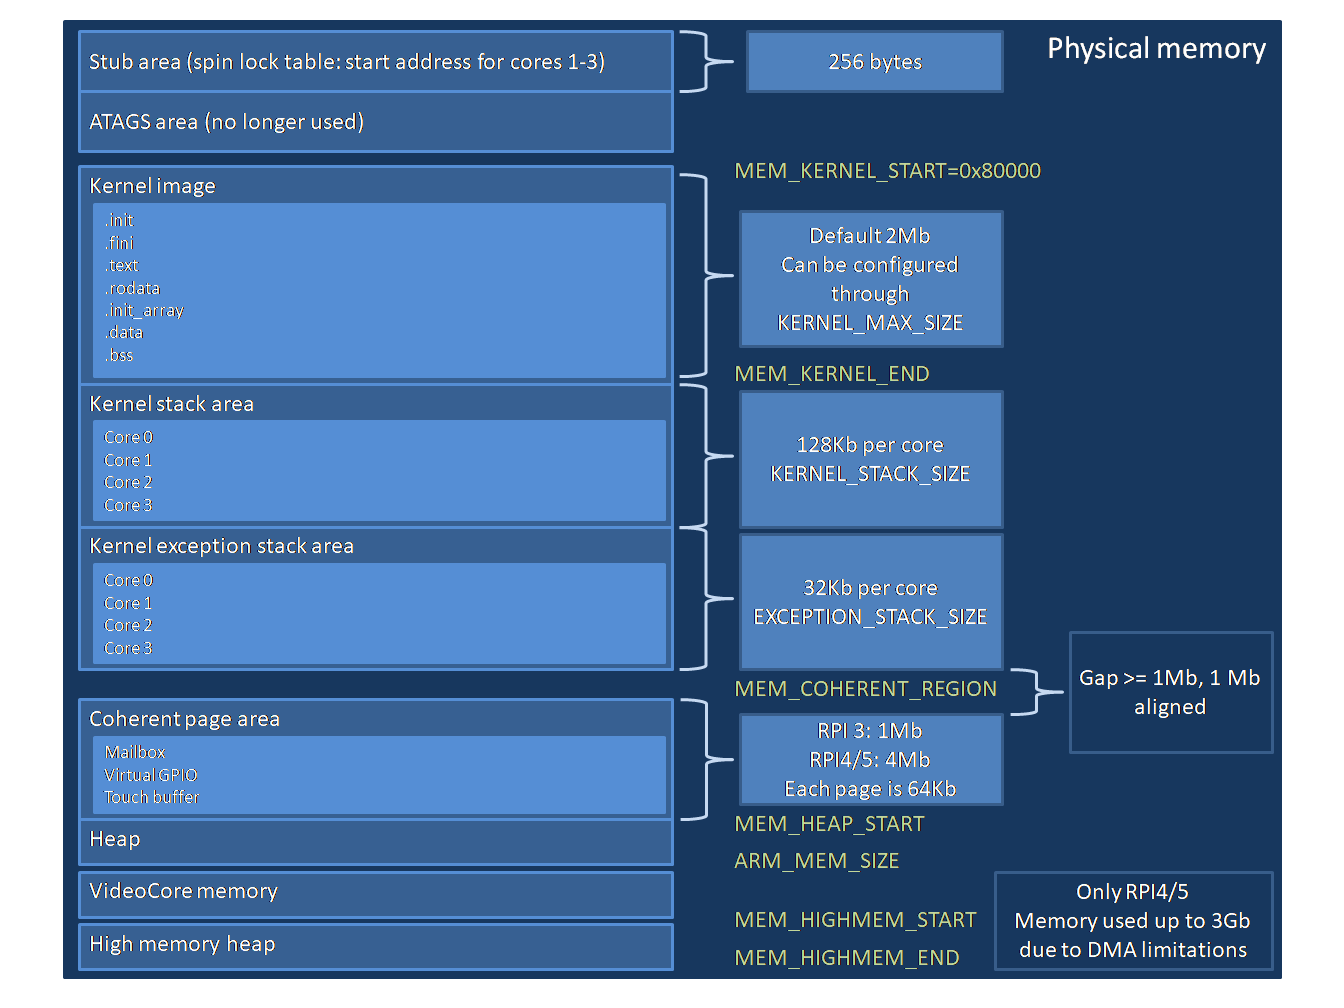
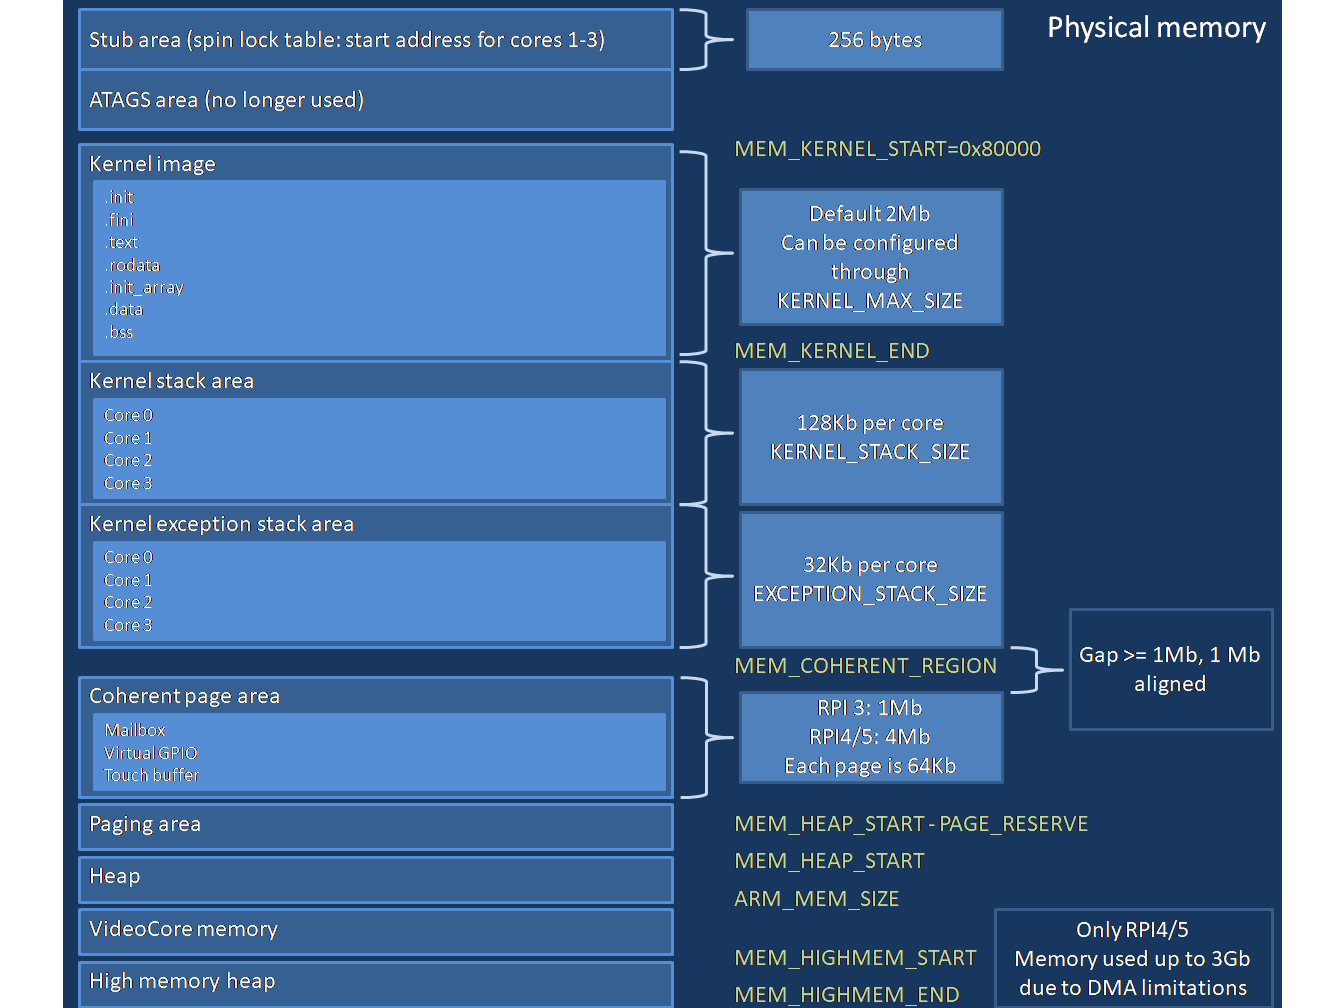
Update comment in MemoryMap on paging area, also update picture showing this

Changed region(s): [[0.0312, 0.0, 0.9688, 1.0]]

diff --git a/code/libraries/baremetal/include/baremetal/MemoryMap.h b/code/libraries/baremetal/include/baremetal/MemoryMap.h
@@ -54,7 +54,7 @@
 /// @brief Part of RAM mapped to ARM (this is the total amount - amount allocated to GPU)
 #define ARM_MEM_SIZE (MEM_SIZE - GPU_MEM_SIZE)
 
-/// @brief Memory reserved for paging
+/// @brief Memory reserved for paging. Paging memory is placed just below the low heap
 #define PAGE_RESERVE (16 * MEGABYTE)
 
 /// @brief Size of every page

diff --git a/tutorial/11-doxygen/code/libraries/baremetal/include/baremetal/MemoryMap.h b/tutorial/11-doxygen/code/libraries/baremetal/include/baremetal/MemoryMap.h
@@ -54,7 +54,7 @@
 /// @brief Part of RAM mapped to ARM (this is the total amount - amount allocated to GPU)
 #define ARM_MEM_SIZE (MEM_SIZE - GPU_MEM_SIZE)
 
-/// @brief Memory reserved for paging
+/// @brief Memory reserved for paging. Paging memory is placed just below the low heap
 #define PAGE_RESERVE (16 * MEGABYTE)
 
 /// @brief Size of every page

diff --git a/tutorial/12-logger/code/libraries/baremetal/include/baremetal/MemoryMap.h b/tutorial/12-logger/code/libraries/baremetal/include/baremetal/MemoryMap.h
@@ -54,7 +54,7 @@
 /// @brief Part of RAM mapped to ARM (this is the total amount - amount allocated to GPU)
 #define ARM_MEM_SIZE (MEM_SIZE - GPU_MEM_SIZE)
 
-/// @brief Memory reserved for paging
+/// @brief Memory reserved for paging. Paging memory is placed just below the low heap
 #define PAGE_RESERVE (16 * MEGABYTE)
 
 /// @brief Size of every page

diff --git a/tutorial/13-board-information/code/libraries/baremetal/include/baremetal/MemoryMap.h b/tutorial/13-board-information/code/libraries/baremetal/include/baremetal/MemoryMap.h
@@ -54,7 +54,7 @@
 /// @brief Part of RAM mapped to ARM (this is the total amount - amount allocated to GPU)
 #define ARM_MEM_SIZE (MEM_SIZE - GPU_MEM_SIZE)
 
-/// @brief Memory reserved for paging
+/// @brief Memory reserved for paging. Paging memory is placed just below the low heap
 #define PAGE_RESERVE (16 * MEGABYTE)
 
 /// @brief Size of every page

diff --git a/tutorial/05-console-uart1/code/libraries/baremetal/include/baremetal/MemoryMap.h b/tutorial/05-console-uart1/code/libraries/baremetal/include/baremetal/MemoryMap.h
@@ -48,7 +48,7 @@
 // Part of RAM mapped to ARM (this is the total amount - amount allocated to GPU)
 #define ARM_MEM_SIZE (MEM_SIZE - GPU_MEM_SIZE) // normally overwritten
 
-// Memory reserved for paging
+// Memory reserved for paging. Paging memory is placed just below the low heap
 #define PAGE_RESERVE (16 * MEGABYTE)
 
 // Size of every page

diff --git a/tutorial/06-improving-startup-static-initialization/code/libraries/baremetal/include/baremetal/MemoryMap.h b/tutorial/06-improving-startup-static-initialization/code/libraries/baremetal/include/baremetal/MemoryMap.h
@@ -48,7 +48,7 @@
 // Part of RAM mapped to ARM (this is the total amount - amount allocated to GPU)
 #define ARM_MEM_SIZE (MEM_SIZE - GPU_MEM_SIZE) // normally overwritten
 
-// Memory reserved for paging
+// Memory reserved for paging. Paging memory is placed just below the low heap
 #define PAGE_RESERVE (16 * MEGABYTE)
 
 // Size of every page

diff --git a/tutorial/07-generalization/code/libraries/baremetal/include/baremetal/MemoryMap.h b/tutorial/07-generalization/code/libraries/baremetal/include/baremetal/MemoryMap.h
@@ -48,7 +48,7 @@
 // Part of RAM mapped to ARM (this is the total amount - amount allocated to GPU)
 #define ARM_MEM_SIZE (MEM_SIZE - GPU_MEM_SIZE) // normally overwritten
 
-// Memory reserved for paging
+// Memory reserved for paging. Paging memory is placed just below the low heap
 #define PAGE_RESERVE (16 * MEGABYTE)
 
 // Size of every page

diff --git a/tutorial/08-timer/code/libraries/baremetal/include/baremetal/MemoryMap.h b/tutorial/08-timer/code/libraries/baremetal/include/baremetal/MemoryMap.h
@@ -48,7 +48,7 @@
 // Part of RAM mapped to ARM (this is the total amount - amount allocated to GPU)
 #define ARM_MEM_SIZE (MEM_SIZE - GPU_MEM_SIZE) // normally overwritten
 
-// Memory reserved for paging
+// Memory reserved for paging. Paging memory is placed just below the low heap
 #define PAGE_RESERVE (16 * MEGABYTE)
 
 // Size of every page

diff --git a/tutorial/09-mailbox/code/libraries/baremetal/include/baremetal/MemoryMap.h b/tutorial/09-mailbox/code/libraries/baremetal/include/baremetal/MemoryMap.h
@@ -48,7 +48,7 @@
 // Part of RAM mapped to ARM (this is the total amount - amount allocated to GPU)
 #define ARM_MEM_SIZE (MEM_SIZE - GPU_MEM_SIZE) // normally overwritten
 
-// Memory reserved for paging
+// Memory reserved for paging. Paging memory is placed just below the low heap
 #define PAGE_RESERVE (16 * MEGABYTE)
 
 // Size of every page

diff --git a/tutorial/10-uart0/code/libraries/baremetal/include/baremetal/MemoryMap.h b/tutorial/10-uart0/code/libraries/baremetal/include/baremetal/MemoryMap.h
@@ -48,7 +48,7 @@
 // Part of RAM mapped to ARM (this is the total amount - amount allocated to GPU)
 #define ARM_MEM_SIZE (MEM_SIZE - GPU_MEM_SIZE) // normally overwritten
 
-// Memory reserved for paging
+// Memory reserved for paging. Paging memory is placed just below the low heap
 #define PAGE_RESERVE (16 * MEGABYTE)
 
 // Size of every page

diff --git a/doc/tutorials/05-console-uart1.md b/doc/tutorials/05-console-uart1.md
@@ -2119,7 +2119,7 @@ File: code/libraries/baremetal/include/baremetal/MemoryMap.h
 48: // Part of RAM mapped to ARM (this is the total amount - amount allocated to GPU)
 49: #define ARM_MEM_SIZE (MEM_SIZE - GPU_MEM_SIZE) // normally overwritten
 50:
-51: // Memory reserved for paging
+51: // Memory reserved for paging. Paging memory is placed just below the low heap
 52: #define PAGE_RESERVE (16 * MEGABYTE)
 53:
 54: // Size of every page
